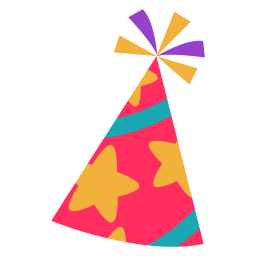
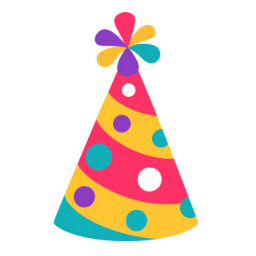
Enhance hat functionality by adding new hat types and updating unlock logic in tests. Refactor HatsShopPanel to improve unlock label display and adjust button styles for consistency. Update asset for party hat.

Changed region(s): [[0.1875, 0.0312, 0.8125, 0.9688]]

diff --git a/src/components/HatsShopPanel.tsx b/src/components/HatsShopPanel.tsx
@@ -62,7 +62,7 @@ export default function HatsShopPanel({ className }: HatsShopPanelProps) {
                 aria-selected={selected}
                 disabled={!unlocked}
                 onClick={() => handleSelect(hat.id)}
-                className={`flex flex-col items-center gap-2 rounded-xl border px-3 py-3 text-sm font-medium transition-colors ${
+                className={`relative flex flex-col items-center rounded-xl border px-3 py-3 text-sm font-medium transition-colors ${
                   selected
                     ? 'border-white/60 bg-white/20 text-white'
                     : unlocked
@@ -70,6 +70,20 @@ export default function HatsShopPanel({ className }: HatsShopPanelProps) {
                       : 'border-white/10 bg-black/20 text-white/40 cursor-not-allowed'
                 }`}
               >
+                {!unlocked && unlockLabel ? (
+                  <>
+                    <Lock
+                      className="pointer-events-none absolute top-1.5 left-1.5 h-3 w-3 shrink-0 text-white/50"
+                      aria-hidden
+                    />
+                    <span
+                      className="pointer-events-none absolute top-1.5 right-1.5 text-[10px] font-semibold uppercase tracking-wide text-white/50"
+                      aria-hidden
+                    >
+                      {unlockLabel}
+                    </span>
+                  </>
+                ) : null}
                 <div className="flex h-16 w-16 items-end justify-center">
                   {hat.imageUrl ? (
                     <img
@@ -81,12 +95,6 @@ export default function HatsShopPanel({ className }: HatsShopPanelProps) {
                     <span className="text-xs uppercase tracking-wide text-white/50">None</span>
                   )}
                 </div>
-                {!unlocked && unlockLabel ? (
-                  <span className="flex items-center gap-0.5 text-[10px] font-semibold uppercase tracking-wide text-white/50">
-                    <Lock className="h-3 w-3" aria-hidden />
-                    {unlockLabel}
-                  </span>
-                ) : null}
               </button>
             );
           })}

diff --git a/src/hats/hats.test.ts b/src/hats/hats.test.ts
@@ -16,23 +16,28 @@ describe('hats', () => {
 
   it('unlocks party at any level and tier hats every 10 levels', () => {
     expect(isHatUnlocked('party', 1)).toBe(true);
-    expect(isHatUnlocked('chef', 9)).toBe(false);
-    expect(isHatUnlocked('chef', 10)).toBe(true);
-    expect(isHatUnlocked('captain', 19)).toBe(false);
-    expect(isHatUnlocked('captain', 20)).toBe(true);
-    expect(isHatUnlocked('beanie', 30)).toBe(true);
-    expect(isHatUnlocked('cowboy', 39)).toBe(false);
-    expect(isHatUnlocked('cowboy', 40)).toBe(true);
+    expect(isHatUnlocked('cowboy', 9)).toBe(false);
+    expect(isHatUnlocked('cowboy', 10)).toBe(true);
+    expect(isHatUnlocked('chef', 19)).toBe(false);
+    expect(isHatUnlocked('chef', 20)).toBe(true);
+    expect(isHatUnlocked('fedora', 30)).toBe(true);
+    expect(isHatUnlocked('propeller', 49)).toBe(false);
+    expect(isHatUnlocked('propeller', 50)).toBe(true);
+    expect(isHatUnlocked('luffy', 69)).toBe(false);
+    expect(isHatUnlocked('luffy', 70)).toBe(true);
+    expect(isHatUnlocked('partycowboy', 89)).toBe(false);
+    expect(isHatUnlocked('partycowboy', 90)).toBe(true);
   });
 
   it('counts wearable hats at level 49', () => {
     expect(countUnlockedWearableHats(49)).toBe(5);
     expect(countUnlockedWearableHats(9)).toBe(1);
+    expect(countUnlockedWearableHats(90)).toBe(10);
   });
 
   it('sanitizes locked selections to none', () => {
-    expect(sanitizeSelectedHat('cowboy', 10)).toBe('none');
-    expect(sanitizeSelectedHat('chef', 10)).toBe('chef');
+    expect(sanitizeSelectedHat('chef', 10)).toBe('none');
+    expect(sanitizeSelectedHat('chef', 20)).toBe('chef');
     expect(sanitizeSelectedHat(undefined, 1)).toBe('none');
   });
 
@@ -44,7 +49,7 @@ describe('hats', () => {
 
   it('resolves lobby player hat for humans and bots', () => {
     const lobby = [
-      { id: 'human', xp: 900, selectedHat: 'chef' as const },
+      { id: 'human', xp: 2000, selectedHat: 'chef' as const },
       { id: 'bot', isBot: true, xp: 5000, selectedHat: 'cowboy' as const },
     ];
     expect(getLobbyPlayerSanitizedHatId('human', lobby)).toBe('chef');

diff --git a/src/hats/hats.ts b/src/hats/hats.ts
@@ -6,6 +6,11 @@ import chefHatUrl from '../assets/chef-hat.png';
 import captainHatUrl from '../assets/captain-hat.png';
 import beanieHatUrl from '../assets/beanie-hat.png';
 import cowboyHatUrl from '../assets/cowboy-hat.png';
+import propellerHatUrl from '../assets/propeller-hat.png';
+import tophatHatUrl from '../assets/tophat-hat.png';
+import fedoraHatUrl from '../assets/fedora-hat.png';
+import partycowboyHatUrl from '../assets/partycowboy-hat.png';
+import luffyHatUrl from '../assets/luffy-hat.png';
 
 export const SELECTED_HAT_STORAGE_KEY = 'selectedHat';
 
@@ -19,10 +24,15 @@ export interface HatDefinition {
 export const HAT_CATALOG: HatDefinition[] = [
   { id: 'none', label: 'No hat', requiredLevel: 0 },
   { id: 'party', label: 'Party hat', imageUrl: partyHatUrl, requiredLevel: 0 },
-  { id: 'chef', label: 'Chef hat', imageUrl: chefHatUrl, requiredLevel: 10 },
-  { id: 'captain', label: 'Captain hat', imageUrl: captainHatUrl, requiredLevel: 20 },
-  { id: 'beanie', label: 'Beanie', imageUrl: beanieHatUrl, requiredLevel: 30 },
-  { id: 'cowboy', label: 'Cowboy hat', imageUrl: cowboyHatUrl, requiredLevel: 40 },
+  { id: 'cowboy', label: 'Cowboy hat', imageUrl: cowboyHatUrl, requiredLevel: 10 },
+  { id: 'chef', label: 'Chef hat', imageUrl: chefHatUrl, requiredLevel: 20 },
+  { id: 'fedora', label: 'Fedora', imageUrl: fedoraHatUrl, requiredLevel: 30 },
+  { id: 'beanie', label: 'Beanie', imageUrl: beanieHatUrl, requiredLevel: 40 },
+  { id: 'propeller', label: 'Propeller hat', imageUrl: propellerHatUrl, requiredLevel: 50 },
+  { id: 'captain', label: 'Captain hat', imageUrl: captainHatUrl, requiredLevel: 60 },
+  { id: 'luffy', label: 'Luffy hat', imageUrl: luffyHatUrl, requiredLevel: 70 },
+  { id: 'tophat', label: 'Top hat', imageUrl: tophatHatUrl, requiredLevel: 80 },
+  { id: 'partycowboy', label: 'Party cowboy hat', imageUrl: partycowboyHatUrl, requiredLevel: 90 },
 ];
 
 const HAT_IDS = new Set<HatId>(HAT_CATALOG.map((h) => h.id));

diff --git a/src/networking/types.ts b/src/networking/types.ts
@@ -42,7 +42,18 @@ export type MinigolfThemeOption = 'classic' | 'random';
 export type MinigolfHoleCount = 3 | 9 | 18;
 export type DealerSpeed = 'slow' | 'medium' | 'fast';
 export type BackgammonMatchFormat = 'single' | 'best-of-3';
-export type HatId = 'none' | 'party' | 'chef' | 'captain' | 'beanie' | 'cowboy';
+export type HatId =
+  | 'none'
+  | 'party'
+  | 'chef'
+  | 'captain'
+  | 'beanie'
+  | 'cowboy'
+  | 'propeller'
+  | 'tophat'
+  | 'fedora'
+  | 'partycowboy'
+  | 'luffy';
 export interface GameStartOptions {
   targetScore?: HeartsTargetScore;
   farkleTargetScore?: FarkleTargetScore;
